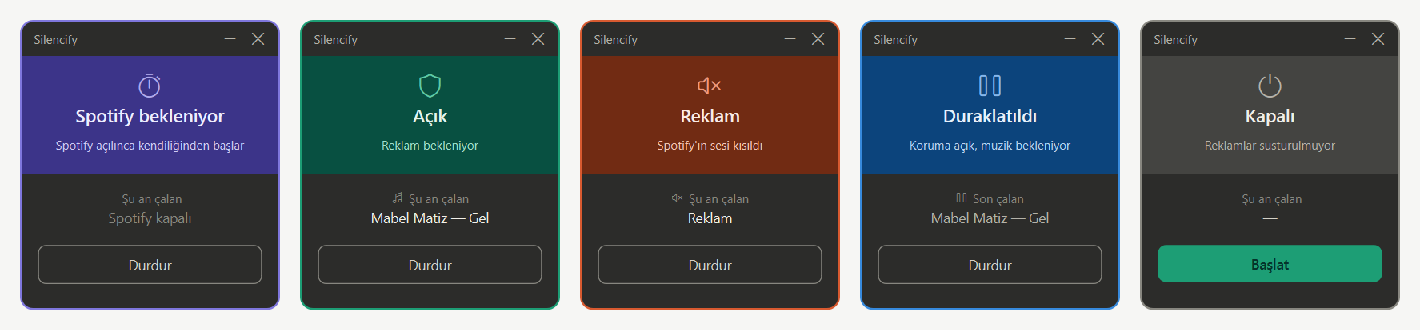
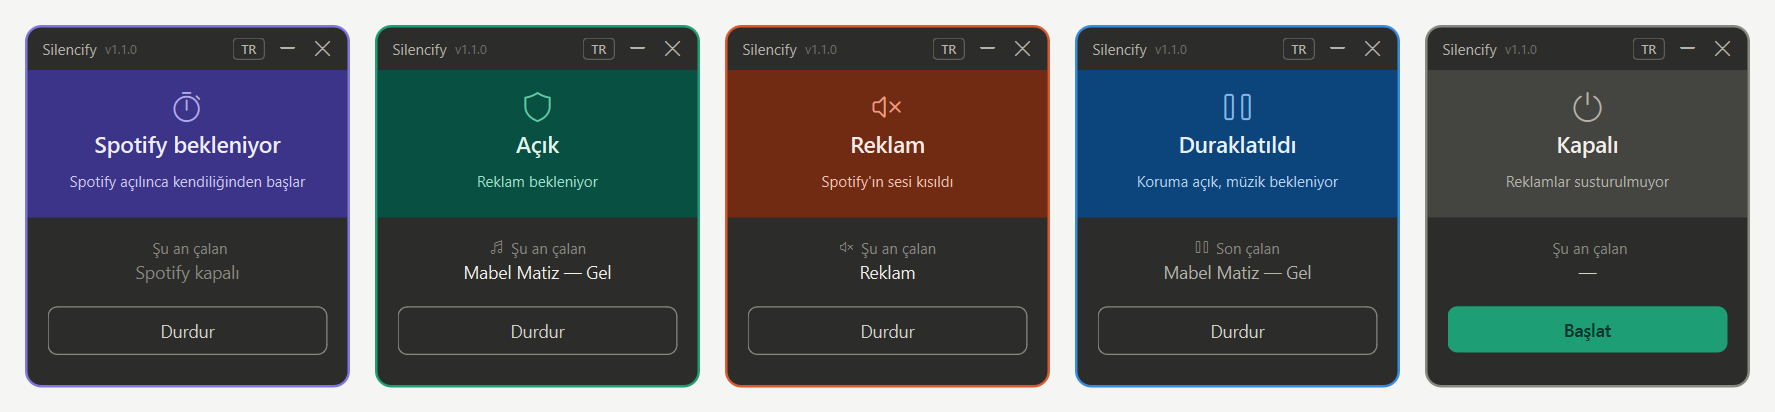
küçük detaylar d

diff --git a/docs/DETAYLAR.md b/docs/DETAYLAR.md
@@ -10,15 +10,16 @@ Spotify'da reklam çaldığında **Spotify'ın sesini otomatik olarak kısan**, 
 
 ## Özellikler
 
--  **Sadece Spotify'ın sesi kısılır.** Bilgisayarın geri kalan sesleri (YouTube, Discord, oyun...) etkilenmez.
--  **Ses seviyene dokunmaz.** Spotify'ı "sessiz" düğmesiyle kapatıp açar, reklamdan sonra aynı seviyeden devam edersin.
--  **Podcast'leri tanır**, podcast'lerde sesi kısmaz.
--  **Son söz senin.** Spotify'ı kendin sessize aldıysan program dokunmaz. Reklam sırasında sesi kendin açarsan o reklam arası boyunca tekrar kısmaz.
--  **Ses kapalı kalmaz.** Program beklenmedik şekilde kapansa bile (çökme, bilgisayarın kapanması) bir sonraki açılışta kıstığı sesi geri açar.
--  **Saatin yanında sakin bir simge:** yeşil = çalışıyor, mor = Spotify bekleniyor, gri = durduruldu.
--  **İstersen Windows açılınca başlar**, Spotify açılana kadar sessizce bekler.
--  **Dilden bağımsız:** Türkçe, İngilizce ya da başka dildeki reklamları tanır.
--  **Hafif:** ~40 MB bellek, neredeyse sıfır işlemci kullanımı.
+- **Sadece Spotify'ın sesi kısılır.** Bilgisayarın geri kalan sesleri (YouTube, Discord, oyun...) etkilenmez.
+- **Ses seviyene dokunmaz.** Spotify'ı "sessiz" düğmesiyle kapatıp açar, reklamdan sonra aynı seviyeden devam edersin.
+- **Podcast'leri tanır**, podcast'lerde sesi kısmaz.
+- **Son söz senin.** Spotify'ı kendin sessize aldıysan program dokunmaz. Reklam sırasında sesi kendin açarsan o reklam arası boyunca tekrar kısmaz.
+- **Ses kapalı kalmaz.** Program beklenmedik şekilde kapansa bile (çökme, bilgisayarın kapanması) bir sonraki açılışta kıstığı sesi geri açar.
+- **Saatin yanında sakin bir simge:** yeşil = çalışıyor, mor = Spotify bekleniyor, gri = durduruldu.
+- **İstersen Windows açılınca başlar**, Spotify açılana kadar sessizce bekler.
+- **Dilden bağımsız:** Türkçe, İngilizce ya da başka dildeki reklamları tanır.
+- **Türkçe ve İngilizce arayüz:** tek tıkla değiştirilir.
+- **Hafif:** ~40 MB bellek, neredeyse sıfır işlemci kullanımı.
 
 ## Nasıl çalışır?
 
@@ -30,18 +31,18 @@ Sonra şu soruları **sırayla** sorar, ilk "evet"te karar verir:
 
 | Sıra | Soru | Karar |
 |---|---|---|
-| 1 | Başlık "Spotify Free / Premium" mu? |  Duraklatıldı |
-| 2 | Medya bilgisi reklam diyor mu? (sanatçı "Spotify" ya da bilinen bir reklam metni) |  Reklam |
-| 3 | Sanatçı boş mu? |  Podcast |
-| 4 | Başlık "Sanatçı - Şarkı" biçiminde mi? |  Şarkı |
-| 5 | Hiçbiri değil |  Reklam |
+| 1 | Başlık "Spotify Free / Premium" mu? | Duraklatıldı |
+| 2 | Medya bilgisi reklam diyor mu? (sanatçı "Spotify" ya da bilinen bir reklam metni) | Reklam |
+| 3 | Sanatçı boş mu? | Podcast |
+| 4 | Başlık "Sanatçı - Şarkı" biçiminde mi? | Şarkı |
+| 5 | Hiçbiri değil | Reklam |
 
 Kural, gerçek dinleme kayıtlarından toplanan örneklerle test edildi (`testler/test_kural.py`).
 
 ## Kurulum
 
 1. [Releases](../../../releases) sayfasından `Silencify.exe` dosyasını indir.
-2. Çift tıkla. Bu kadar. 
+2. Çift tıkla. Bu kadar.
 
 Kurulum sihirbazı yok, Python ya da başka bir program gerekmez. (Windows 10/11)
 
@@ -77,6 +78,20 @@ Programı kaldırmak için `.exe`'yi ve bu klasörü silmen yeterli (Windows aç
 | `silencify/baslangic.py`, `tek_kopya.py` | Windows açılınca başlatma, tek kopya koruması |
 | `testler/` | Otomatik testler |
 | `araclar/` | Geliştirme sırasında kullanılan gözlem ve ölçüm araçları |
+
+## Kaynak koddan çalıştırma
+
+Windows'ta Python 3.12 gerekir. Proje klasöründe:
+
+```powershell
+python -m venv .venv
+.venv\Scripts\activate
+pip install -r requirements.txt
+python silencify/uygulama.py            # Pencereli sürüm
+python silencify/reklam_susturucu.py    # Terminal sürümü
+```
+
+`Silencify.exe`'yi kendin oluşturmak için: `pip install -r requirements-gelistirme.txt`, sonra `python paketle.py`. Dosya `dist\` klasörüne düşer.
 
 ## Testler
 

diff --git a/docs/DETAILS.md b/docs/DETAILS.md
@@ -6,9 +6,7 @@ A small Windows app that **automatically mutes Spotify** when an ad plays and un
 
 > ⚠ **It does not block ads!** The ad still plays, you just don't hear it. It never touches Spotify itself, your account or your internet connection.
 
-![The app's screens](ekranlar.png)
-
-*The app's interface is currently in Turkish.*
+![The app's screens](screens.png)
 
 ## Features
 
@@ -20,6 +18,7 @@ A small Windows app that **automatically mutes Spotify** when an ad plays and un
 - **A calm tray icon next to the clock:** green = running, purple = waiting for Spotify, gray = stopped.
 - **Optionally starts with Windows** and quietly waits until Spotify is opened.
 - **Language independent:** recognizes ads in Turkish, English or any other language.
+- **English and Turkish interface:** switch with one click.
 - **Lightweight:** ~40 MB of memory, almost zero CPU usage.
 
 ## How does it work?
@@ -79,6 +78,20 @@ To uninstall, just delete the `.exe` and this folder (if you enabled "start with
 | `silencify/baslangic.py`, `tek_kopya.py` | Start with Windows, single-instance protection |
 | `testler/` | Automated tests |
 | `araclar/` | Observation and measurement tools used during development |
+
+## Running from source
+
+Needs Python 3.12 on Windows. In the project folder:
+
+```powershell
+python -m venv .venv
+.venv\Scripts\activate
+pip install -r requirements.txt
+python silencify/uygulama.py            # Windowed version
+python silencify/reklam_susturucu.py    # Terminal version
+```
+
+To build `Silencify.exe` yourself: `pip install -r requirements-gelistirme.txt`, then `python paketle.py`. The file appears in `dist\`.
 
 ## Tests
 
